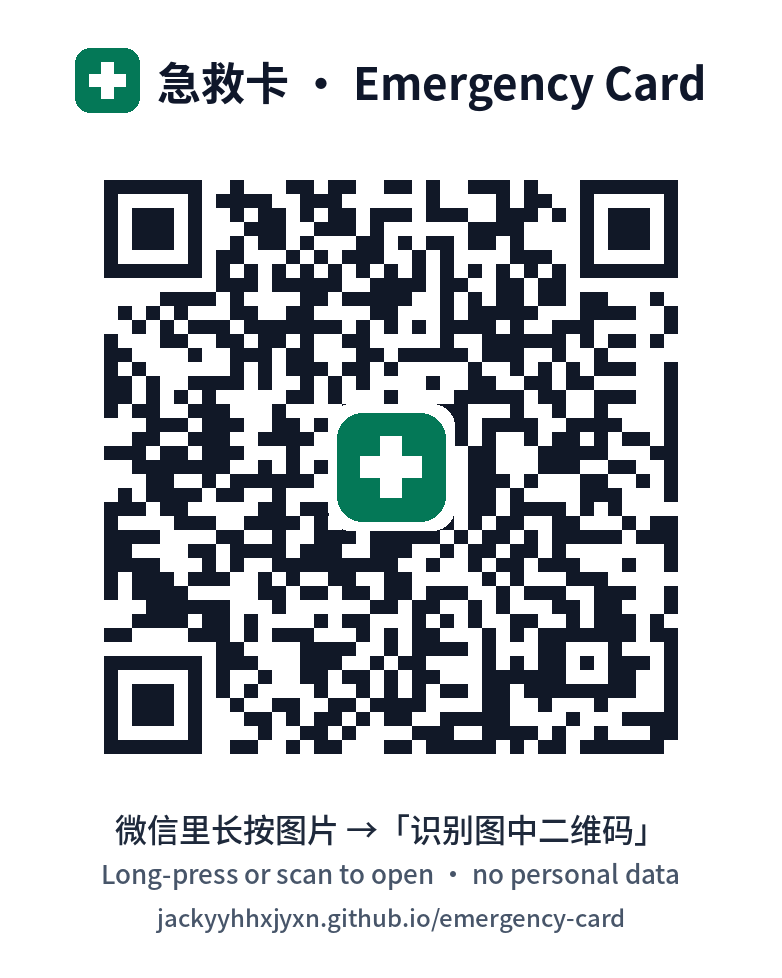
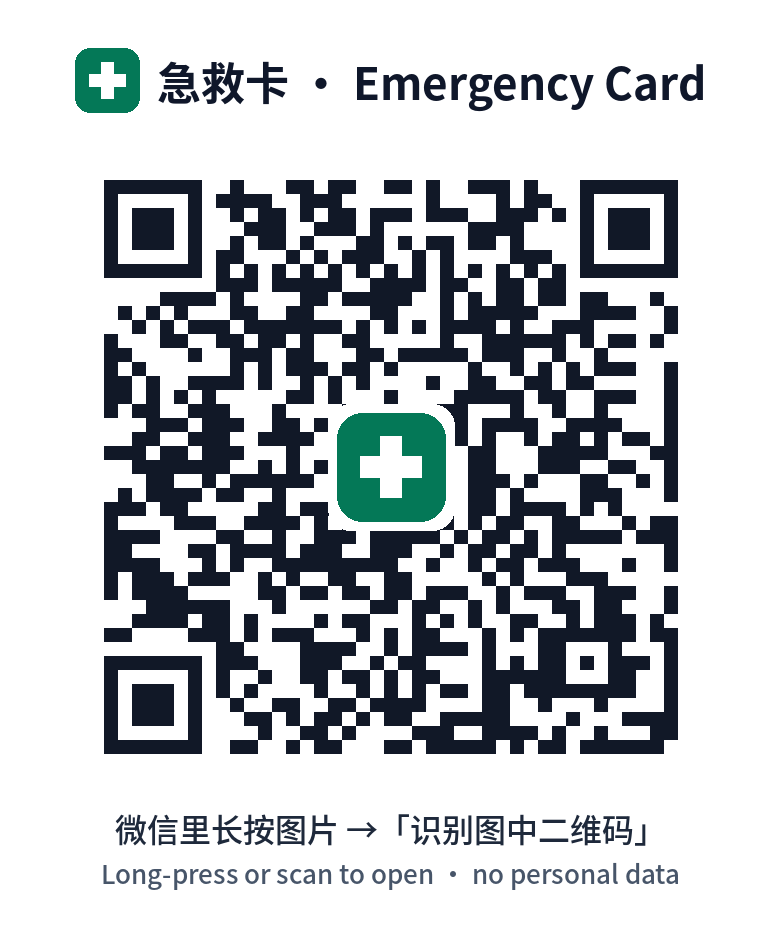
v0.11.3 恢复打印二维码 + 分享图去网址文字 + 蓝色改实色 + 反馈表按国家切换

diff --git a/index.html b/index.html
@@ -921,6 +921,26 @@ header.top,.shead{background:var(--bar-glass);border-bottom:1px solid var(--gl-e
   .card,.list,.extra,.metro,details.dd,.steps li,.stepcard,.tab{background:var(--bg-card);border-color:var(--border-strong)}
   .n,.loc,.urlbox,.brbox,.prv,.back,.chip,.ibtn{background:var(--bg-subtle);border-color:var(--border-strong)}
 }
+
+/* ===================== v0.11.3：蓝色改回实色（取代 v0.11.2 的渐变高光） =====================
+   用户实测：v0.11.2 的“上亮下暗”渐变让蓝色发灰、不好看。改为：
+   蓝色 = 纯色 #1D4ED8（不再做 #1D4ED8→#1E40AF 渐变，也不叠白色高光），水晶感只靠“顶部 1px 亮线 + 细亮边 + 柔和投影”；
+   底栏当前页水晶键、入口格子、快捷按钮、所有蓝按钮用同一套；红色按同样规则（保持原有红色，去掉白色高光）。 */
+:root{--solid-shadow:inset 0 1px 0 rgba(255,255,255,.38),0 1px 2px rgba(15,23,42,.14),0 8px 18px -10px rgba(29,78,216,.55);
+  --solid-shadow-r:inset 0 1px 0 rgba(255,255,255,.38),0 1px 2px rgba(15,23,42,.14),0 8px 18px -10px rgba(185,28,28,.55);
+  --solid-edge:rgba(255,255,255,.16)}
+.tile:not(.top),.qa,.helpbtn,.tab[aria-current="page"],
+.btn:not(.ghost):not(.warn):not(.red):not(.grn),.snav .nx,
+.bchoice[aria-pressed="true"],.cat[aria-pressed="true"]:not([data-cat="life"]),.chip2[aria-pressed="true"]{
+  background:var(--brand);border:1px solid var(--solid-edge);box-shadow:var(--solid-shadow)}
+.tab[aria-current="page"]{color:#FFFFFF}
+.btn:not(.red):not(.grn):not(.ghost):not(.warn):active,.tile:not(.top):active,.qa:active,.helpbtn:active{background:var(--brand-press)}
+.btn.red,.big.no,.tile.top,.rblock:not(.empty),.call,.cat[data-cat="life"][aria-pressed="true"],.btn.warn[data-armed="1"]{
+  background:var(--red-grad);border:1px solid var(--solid-edge);box-shadow:var(--solid-shadow-r)}
+.call:active,.big.no:active,a.rblock:active{background:var(--crimson-press)}
+.btn.grn{background:#047857;border:1px solid var(--solid-edge);box-shadow:var(--solid-shadow)}
+@media (prefers-color-scheme:dark){:root:not([data-theme="light"]){--solid-shadow:inset 0 1px 0 rgba(255,255,255,.22),0 8px 18px -10px rgba(0,0,0,.8);--solid-shadow-r:inset 0 1px 0 rgba(255,255,255,.22),0 8px 18px -10px rgba(0,0,0,.8)}}
+:root[data-theme="dark"]{--solid-shadow:inset 0 1px 0 rgba(255,255,255,.22),0 8px 18px -10px rgba(0,0,0,.8);--solid-shadow-r:inset 0 1px 0 rgba(255,255,255,.22),0 8px 18px -10px rgba(0,0,0,.8)}
 @media print{body,.sheet{background:#fff!important}}
 </style>
 </head>
@@ -948,7 +968,7 @@ var FEEDBACK_GOOGLE = _CFG.google||"";    // Google 表单链接，例如 https:
 var FEEDBACK_TENCENT = _CFG.tencent||"";  // 腾讯问卷链接，例如 https://wj.qq.com/s2/xxxx/xxxx/
 // 可选：Google 表单里"版本/国家/语言"那道简答题的编号（形如 entry.123456789）。填了以后会自动带入，留空也能用。
 var GOOGLE_PREFILL_ENTRY = _CFG.googleEntry||"";
-var VERSION = "MVP v0.11.2";
+var VERSION = "MVP v0.11.3";
 var VERIFIED_ON = "2026-11-17";   // 全部国家号码的统一核实日期；某国单独复核后，在该国数据里加 v:"YYYY-MM-DD"
 // 固定的正式网址：分享、锁屏图片一律用它，不用当前地址栏（避免分享出 file:// 或预览地址）。分享链接里永远不放任何个人信息。
 var SITE_URL = "https://jackyyhhxjyxn.github.io/emergency-card/";
@@ -1929,7 +1949,7 @@ function viewMore(c){var h=aboutHtml(c);
   h+='<h2 class="secH"'+(standalone()?' style="margin-top:6px"':'')+'><b>'+t("offT")+'</b></h2><section class="card"><div>'+t("wallS1")+'</div>'+
      '<button class="btn" id="wallGo">'+I("phone")+t("wallBtn")+'</button>'+info('<p>'+t("wallS")+'</p>')+
      '<div class="idcan"><div>'+t("offPr")+'</div><button class="btn ghost" id="prGo">'+I("print")+t("prBtn")+'</button></div></section>';
-  h+='<h2 class="secH"><b>'+t("shareT")+'</b></h2><section class="card"><div>'+t("shareS")+'</div><figure class="qrw"><img src="qr-wechat.png" width="782" height="978" alt="'+esc(t("qrAlt"))+'"></figure>'+info(t(inWx()?"qrCap":"qrCapOut"))+'<div class="urlbox">'+esc(SITE_URL)+'</div>'+
+  h+='<h2 class="secH"><b>'+t("shareT")+'</b></h2><section class="card"><div>'+t("shareS")+'</div><figure class="qrw"><img src="qr-wechat.png" width="782" height="935" alt="'+esc(t("qrAlt"))+'"></figure>'+info(t(inWx()?"qrCap":"qrCapOut"))+
      (inWx()?'<div class="note" role="note" style="margin:12px 0 0">'+I("info")+'<div>'+t("shareInWx")+'</div></div>':'')+
      (inWx()?'':(qrPrefetch(),'<button class="btn" id="qrSend">'+I("dl")+t("qrSend")+'</button>'))+
      '<button class="btn'+(inWx()?'':' ghost')+'" id="copyUrl">'+t("shareCopy")+'</button><div class="muted" id="shareMsg" role="status"></div>'+
@@ -1980,11 +2000,12 @@ function fbBlock(c){
   if(g&&GOOGLE_PREFILL_ENTRY)g+=(g.indexOf("?")<0?"?":"&")+"usp=pp_url&"+encodeURIComponent(GOOGLE_PREFILL_ENTRY)+"="+encodeURIComponent(fbCtx(c));
   var bg=g?'<a class="btn{K}" href="'+esc(g)+'" target="_blank" rel="noopener">'+t("fbG")+'</a>':"";
   var bq=q?'<a class="btn{K}" href="'+esc(q)+'" target="_blank" rel="noopener">'+t("fbT2")+'</a>':"";
-  /* v0.4.2 按界面语言分流：中文只给腾讯问卷，英文只给 Google 表单；英文界面在中国大陆（Google 打不开）也给腾讯；缺哪个就用另一个 */
-  var pick=(lang==="zh"||c==="CN")?(bq||bg):(bg||bq);
-  var list=[pick];
+  /* v0.11.3 按国家分流（取代 v0.4.2 按语言）：中国大陆 = 只给腾讯问卷（Google 打不开）；其他所有国家 = Google 表单为主按钮，
+     中文界面另加腾讯问卷作第二按钮。缺哪个就用另一个 */
+  var list=c==="CN"?[bq||bg]:(lang==="zh"?[bg,bq]:[bg||bq]).filter(Boolean);
+  var pick=list[0];
   var h=list.map(function(x,i){return x.replace("{K}",i?" ghost":"")}).join("");
-  var cp=(pick===bq&&bq)?'<button class="btn ghost" id="fbCp">'+t("fbCp")+'</button><div class="muted" id="fbCpMsg" role="status"></div>':'';
+  var cp=(bq&&list.indexOf(bq)>=0)?'<button class="btn ghost" id="fbCp">'+t("fbCp")+'</button><div class="muted" id="fbCpMsg" role="status"></div>':'';
   return h+'<div class="muted" style="margin-top:10px">'+t("fbCtx")+'：<b>'+esc(fbCtx(c))+'</b></div>'+cp+'<div class="muted" style="margin-top:10px">'+t("fbNoPII")+'</div>';
 }
 
@@ -2523,6 +2544,7 @@ function pregNote(d){var w=pregOld(d);return w?'<div class="note" role="note" id
 function dueOk(s){return /^\d{4}-\d{2}-\d{2}$/.test(s||"")}
 
 /* 二维码：只编码固定首页网址 SITE_URL，不含任何个人信息。版本 4、纠错 M、整数像素（每格 1 个单位，crispEdges），生成后已用 OpenCV 解码核对。 */
+var QR_SVG='<svg xmlns="http://www.w3.org/2000/svg" viewBox="0 0 41 41" shape-rendering="crispEdges"><rect width="41" height="41" fill="#fff"/><path fill="#000" d="M4 4h7v1h-7zM12 4h1v1h-1zM14 4h2v1h-2zM17 4h2v1h-2zM21 4h2v1h-2zM24 4h2v1h-2zM30 4h7v1h-7zM4 5h1v1h-1zM10 5h1v1h-1zM13 5h2v1h-2zM16 5h1v1h-1zM25 5h1v1h-1zM28 5h1v1h-1zM30 5h1v1h-1zM36 5h1v1h-1zM4 6h1v1h-1zM6 6h3v1h-3zM10 6h1v1h-1zM12 6h6v1h-6zM21 6h1v1h-1zM25 6h4v1h-4zM30 6h1v1h-1zM32 6h3v1h-3zM36 6h1v1h-1zM4 7h1v1h-1zM6 7h3v1h-3zM10 7h1v1h-1zM13 7h1v1h-1zM19 7h1v1h-1zM23 7h1v1h-1zM25 7h4v1h-4zM30 7h1v1h-1zM32 7h3v1h-3zM36 7h1v1h-1zM4 8h1v1h-1zM6 8h3v1h-3zM10 8h1v1h-1zM14 8h2v1h-2zM19 8h1v1h-1zM23 8h1v1h-1zM26 8h1v1h-1zM30 8h1v1h-1zM32 8h3v1h-3zM36 8h1v1h-1zM4 9h1v1h-1zM10 9h1v1h-1zM12 9h1v1h-1zM19 9h1v1h-1zM21 9h3v1h-3zM28 9h1v1h-1zM30 9h1v1h-1zM36 9h1v1h-1zM4 10h7v1h-7zM12 10h1v1h-1zM14 10h1v1h-1zM16 10h1v1h-1zM18 10h1v1h-1zM20 10h1v1h-1zM22 10h1v1h-1zM24 10h1v1h-1zM26 10h1v1h-1zM28 10h1v1h-1zM30 10h7v1h-7zM13 11h3v1h-3zM18 11h3v1h-3zM23 11h2v1h-2zM26 11h1v1h-1zM4 12h1v1h-1zM6 12h1v1h-1zM10 12h2v1h-2zM13 12h2v1h-2zM20 12h1v1h-1zM24 12h1v1h-1zM27 12h1v1h-1zM31 12h1v1h-1zM34 12h1v1h-1zM36 12h1v1h-1zM7 13h1v1h-1zM9 13h1v1h-1zM13 13h1v1h-1zM17 13h1v1h-1zM19 13h1v1h-1zM21 13h1v1h-1zM23 13h2v1h-2zM27 13h2v1h-2zM30 13h1v1h-1zM33 13h1v1h-1zM36 13h1v1h-1zM4 14h1v1h-1zM6 14h1v1h-1zM8 14h1v1h-1zM10 14h1v1h-1zM13 14h1v1h-1zM19 14h2v1h-2zM23 14h3v1h-3zM27 14h1v1h-1zM33 14h2v1h-2zM36 14h1v1h-1zM4 15h1v1h-1zM6 15h3v1h-3zM11 15h2v1h-2zM14 15h2v1h-2zM17 15h1v1h-1zM19 15h1v1h-1zM21 15h1v1h-1zM27 15h1v1h-1zM30 15h4v1h-4zM35 15h1v1h-1zM5 16h2v1h-2zM10 16h2v1h-2zM15 16h3v1h-3zM19 16h1v1h-1zM21 16h1v1h-1zM26 16h1v1h-1zM28 16h1v1h-1zM30 16h2v1h-2zM36 16h1v1h-1zM8 17h2v1h-2zM11 17h1v1h-1zM13 17h2v1h-2zM16 17h2v1h-2zM25 17h1v1h-1zM27 17h2v1h-2zM30 17h2v1h-2zM33 17h4v1h-4zM4 18h1v1h-1zM6 18h1v1h-1zM8 18h1v1h-1zM10 18h3v1h-3zM14 18h2v1h-2zM17 18h3v1h-3zM23 18h1v1h-1zM25 18h3v1h-3zM32 18h1v1h-1zM34 18h1v1h-1zM36 18h1v1h-1zM5 19h3v1h-3zM12 19h2v1h-2zM16 19h3v1h-3zM22 19h1v1h-1zM27 19h1v1h-1zM29 19h3v1h-3zM33 19h1v1h-1zM4 20h4v1h-4zM9 20h2v1h-2zM15 20h2v1h-2zM19 20h2v1h-2zM23 20h1v1h-1zM27 20h2v1h-2zM30 20h2v1h-2zM33 20h1v1h-1zM35 20h1v1h-1zM5 21h1v1h-1zM7 21h1v1h-1zM12 21h2v1h-2zM17 21h1v1h-1zM19 21h2v1h-2zM23 21h3v1h-3zM27 21h2v1h-2zM30 21h1v1h-1zM33 21h1v1h-1zM36 21h1v1h-1zM5 22h1v1h-1zM7 22h5v1h-5zM13 22h3v1h-3zM17 22h3v1h-3zM21 22h3v1h-3zM27 22h1v1h-1zM29 22h3v1h-3zM33 22h2v1h-2zM36 22h1v1h-1zM4 23h1v1h-1zM6 23h1v1h-1zM9 23h1v1h-1zM12 23h1v1h-1zM15 23h4v1h-4zM20 23h1v1h-1zM22 23h1v1h-1zM26 23h2v1h-2zM29 23h2v1h-2zM32 23h2v1h-2zM35 23h2v1h-2zM7 24h5v1h-5zM16 24h7v1h-7zM24 24h5v1h-5zM30 24h2v1h-2zM7 25h2v1h-2zM12 25h1v1h-1zM16 25h3v1h-3zM20 25h3v1h-3zM24 25h2v1h-2zM27 25h5v1h-5zM33 25h1v1h-1zM36 25h1v1h-1zM4 26h3v1h-3zM10 26h4v1h-4zM16 26h2v1h-2zM20 26h3v1h-3zM24 26h4v1h-4zM29 26h1v1h-1zM34 26h1v1h-1zM36 26h1v1h-1zM7 27h1v1h-1zM11 27h2v1h-2zM15 27h2v1h-2zM19 27h2v1h-2zM22 27h3v1h-3zM28 27h1v1h-1zM30 27h2v1h-2zM33 27h1v1h-1zM35 27h2v1h-2zM4 28h2v1h-2zM8 28h4v1h-4zM14 28h1v1h-1zM18 28h1v1h-1zM28 28h5v1h-5zM12 29h15v1h-15zM28 29h1v1h-1zM32 29h1v1h-1zM36 29h1v1h-1zM4 30h7v1h-7zM12 30h1v1h-1zM14 30h1v1h-1zM16 30h2v1h-2zM19 30h2v1h-2zM23 30h2v1h-2zM28 30h1v1h-1zM30 30h1v1h-1zM32 30h5v1h-5zM4 31h1v1h-1zM10 31h1v1h-1zM13 31h4v1h-4zM18 31h1v1h-1zM21 31h1v1h-1zM23 31h1v1h-1zM25 31h1v1h-1zM27 31h2v1h-2zM32 31h2v1h-2zM35 31h2v1h-2zM4 32h1v1h-1zM6 32h3v1h-3zM10 32h1v1h-1zM14 32h2v1h-2zM17 32h2v1h-2zM21 32h1v1h-1zM25 32h1v1h-1zM27 32h6v1h-6zM4 33h1v1h-1zM6 33h3v1h-3zM10 33h1v1h-1zM13 33h2v1h-2zM25 33h1v1h-1zM27 33h1v1h-1zM29 33h1v1h-1zM31 33h2v1h-2zM36 33h1v1h-1zM4 34h1v1h-1zM6 34h3v1h-3zM10 34h1v1h-1zM12 34h1v1h-1zM14 34h3v1h-3zM18 34h2v1h-2zM21 34h1v1h-1zM23 34h1v1h-1zM25 34h5v1h-5zM31 34h3v1h-3zM35 34h2v1h-2zM4 35h1v1h-1zM10 35h1v1h-1zM17 35h2v1h-2zM28 35h1v1h-1zM30 35h4v1h-4zM4 36h7v1h-7zM12 36h1v1h-1zM14 36h1v1h-1zM19 36h2v1h-2zM23 36h2v1h-2zM27 36h2v1h-2zM30 36h4v1h-4zM36 36h1v1h-1z"/></svg>';
 
 var T6={
 helpOT:["帮别人呼救","Call for someone else"],helpOS:["用你的手机为病人呼救：电话里说什么、位置、接应救护车","Call for someone else on your phone: what to say, your location, meeting the ambulance"],
@@ -2558,7 +2580,8 @@ prF:["冰箱单（A4）+ 大门内侧提示贴","Fridge sheet (A4) + front-door 
 prGo:["打印 / 存为 PDF","Print / save as PDF"],
 prWx:["微信里不能打印：点右上角“···”→“在浏览器打开”，再打印。","WeChat can’t print: tap “···” → “Open in browser”, then print."],
 prPriv:["纸上有健康信息，看到的人都能读到。钱包卡随身带，冰箱单只放在家里。信息变了请重新打印。","The paper shows health details to anyone who sees it. Keep the wallet card on you and the fridge sheet at home. Reprint whenever something changes."],
-prQr:["打印件不含二维码和网址，只有你填写的信息和打印日期。","The printout has no QR code or web address — only what you entered and the print date."],
+prQr:["二维码只打开急救卡网站首页，不含任何个人信息；纸上不印网址文字。","The QR code only opens the Emergency Card home page and contains no personal information; no web address is printed."],
+prQrS:["扫码：急救卡网站（不含个人信息）","Scan: Emergency Card website (no personal data)"],
 prHow:["Message in a Bottle 的做法：把冰箱单放在冰箱门里（可装进瓶子或袋子），把提示贴贴在大门内侧，急救人员看到会去冰箱找。","The Message in a Bottle approach: keep the fridge sheet in the fridge door (in a bottle or bag) and put the sticker inside your front door so responders know to look in the fridge."],
 prStk:["急救信息在冰箱里","Medical information in the fridge"],
 prDate:["打印日期","Printed"],prMore:["另有 {n} 项，见手机或冰箱单","+{n} more — see phone or fridge sheet"],
@@ -2822,6 +2845,7 @@ function walletHtml(c,d){var rk=riskOf(d),top=rk.slice(0,3),more=rk.length-top.l
   var b='<div class="wface wb"><div class="wtop">'+esc(T.wSide[0])+'</div>'+
     (d.ins?'<div class="wt">'+wbil("Insurance","保险")+'：'+esc(d.ins)+'</div>':'')+
     (d.insTel?'<div class="wt">'+wbil("24h assistance","救援热线")+'：<b>'+esc(d.insTel)+'</b></div>':'')+
+    '<div class="wqr">'+QR_SVG+'</div><div class="wqrc">'+esc(T.prQrS[1])+'<br>'+esc(T.prQrS[0])+'</div>'+
     '<div class="wdate">'+esc(T.prDate[1])+' · '+esc(T.prDate[0])+' '+todayStr()+'</div></div>';
   return '<div class="wcard">'+f+b+'</div>'}
 function fridgeHtml(c,d){var rk=riskOf(d),N=C[c].amb;
@@ -2833,6 +2857,7 @@ function fridgeHtml(c,d){var rk=riskOf(d),N=C[c].amb;
     row("Usual state","平时的状态",d.base)+row("Medicines kept","药放在哪里",d.medloc)+row("Advance care plan / DNACPR form kept","预立医疗计划 / 不复苏文件放在",d.acp)+row("Emergency contact","紧急联系人",d.ice)+
     row("Insurance","保险",d.ins)+row("24h assistance","救援热线",d.insTel)+
     '<div class="famb"><span>Emergency · 急救电话（'+esc(C[c].en)+' · '+esc(C[c].zh)+'）</span><b>'+esc(N)+'</b></div>'+
+    '<div class="fqrw"><div class="fqr">'+QR_SVG+'</div><div>'+esc(T.prQrS[1])+'<br>'+esc(T.prQrS[0])+'</div></div>'+
     '<div class="ffoot">'+esc(T.prHow[1])+'<br>'+esc(T.prHow[0])+'</div></div>'+
     '<div class="fstk"><svg viewBox="0 0 24 24" aria-hidden="true"><rect width="24" height="24" rx="5" fill="#047857"/><path d="M10 5h4v5h5v4h-5v5h-4v-5H5v-4h5z" fill="#fff"/></svg><div><b>'+esc(T.prStk[0])+'</b><b>'+esc(T.prStk[1].toUpperCase())+'</b><small>Emergency Card · 急救卡</small></div></div>'}
 function openPrint(){

diff --git a/sw.js b/sw.js
@@ -1,5 +1,5 @@
 /* 急救卡 Emergency Card — 离线缓存。每次发布新版本时，把下面的版本号改一下。 */
-var V = "ec-v0.11.2";
+var V = "ec-v0.11.3";
 var FILES = ["./", "index.html", "config.js", "manifest.webmanifest", "icon-192.png", "icon-512.png", "apple-touch-icon.png", "qr-wechat.png"];
 
 self.addEventListener("install", function (e) {
